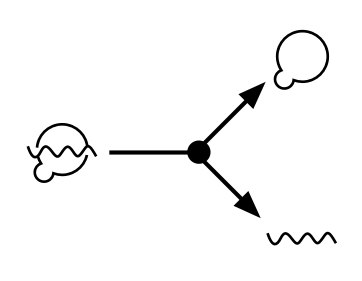
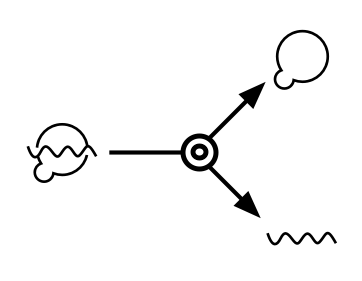
Adjustments per discussion on issue, list and COMBINE

Changed region(s): [[0.4862, 0.4555, 0.6077, 0.6263]]

diff --git a/SEPs/SEP_V013.md b/SEPs/SEP_V013.md
@@ -40,7 +40,7 @@ If a species or interactions has multiple sources of production then lines from 
 
 #### Formation of a species from many others
 
-If multiple source elements combine (e.g., complex formation) to produce a new species or act together for regulation, then lines can be joined, but the junction SHOULD be annotated with a solid filled circle, as per SBGN.
+If multiple source elements combine (e.g., complex formation) to produce a new species or act together for regulation, then lines can be joined, but the junction MUST be annotated with a process glyph, as per SBGN.  For example, SBGN uses a circle to indicate association of species into a complex, which can be used to show CAS9 combining with gRNA as in the diagram below:
 
 ![example-multi-source-complex](SEP_V013-ex-multi-source-complex.png)
 
@@ -54,7 +54,7 @@ If a species or interaction has many targets then an arrow can split to allow a 
 
 #### Splitting of one species into many others
 
-If a species breaks down into multiple parts then an arrow can split to connect these sub-components, but the junction SHOULD be annotated with a solid filled circle, as per SBGN.
+If a species breaks down into multiple parts then an arrow can split to connect these sub-components, but the junction MUST be annotated with process glyph, as per SBGN.  For example, the dissociation of gRNA from CAS9 can be indicated with the aid of a "double-circle" SBGN dissociation glyph:
 
 ![example-multi-source](SEP_V013-ex-multi-target-complex.png)
 
